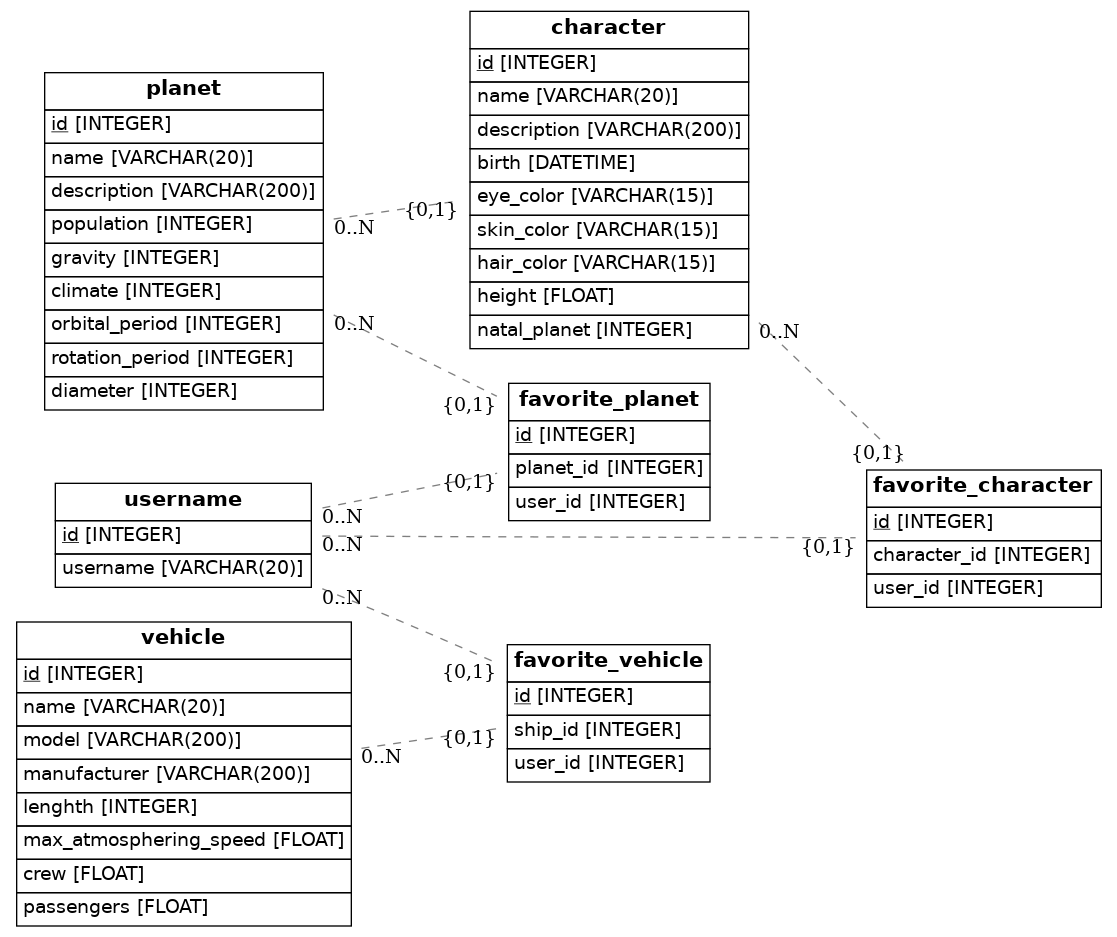
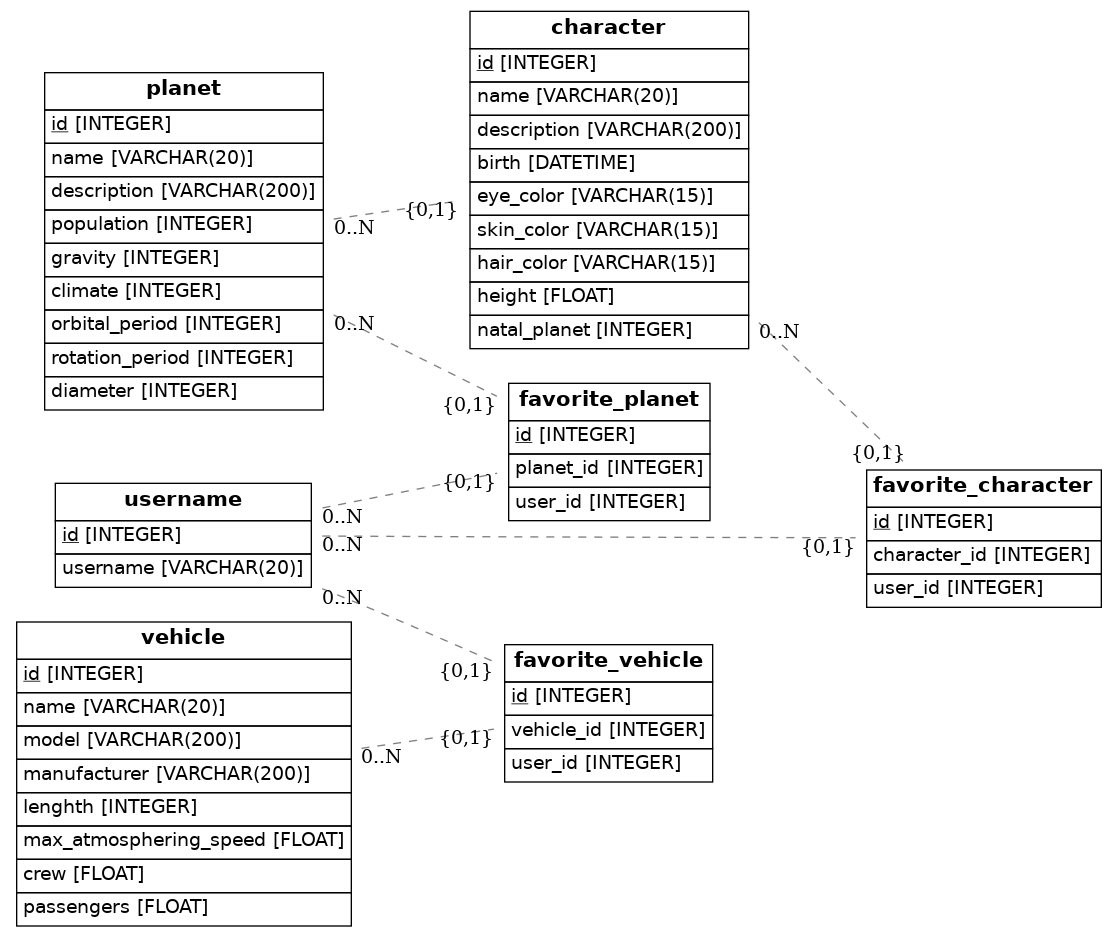
definitivo

Changed region(s): [[0.3957, 0.6809, 0.6392, 0.8356]]

diff --git a/src/models.py b/src/models.py
@@ -73,7 +73,7 @@ class Favorite_Vehicle(Base):
     __tablename__ = "favorite_vehicle"
 
     id = Column(Integer, primary_key = True)
-    ship_id = Column(Integer, ForeignKey("vehicle.id"), nullable = False)
+    vehicle_id = Column(Integer, ForeignKey("vehicle.id"), nullable = False)
     user_id = Column(Integer, ForeignKey("username.id"), nullable = False)
 
 class Favorite_Planet(Base):
